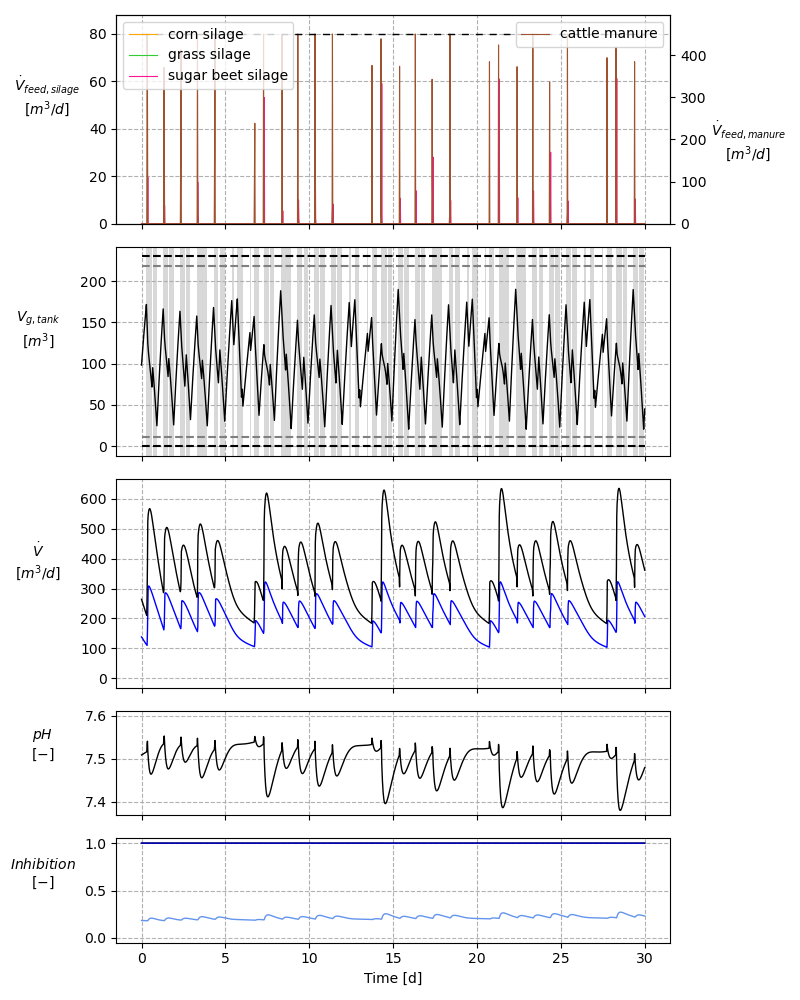
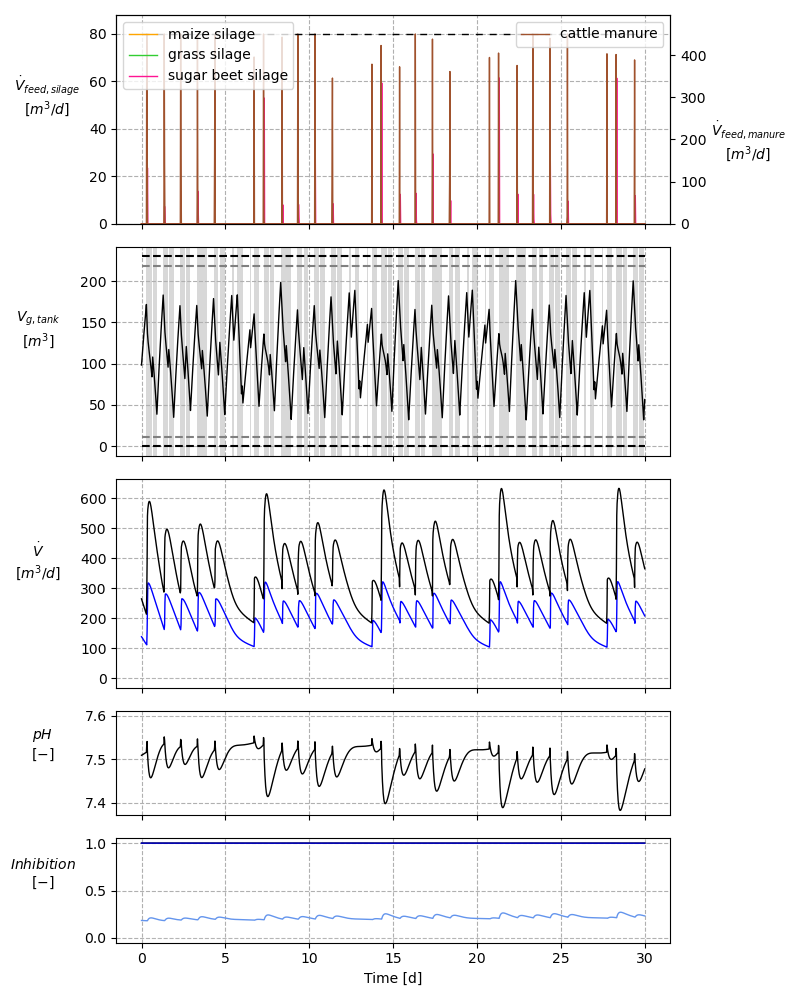
update plots of Sc. 2a (robust) with only 1 sigma

diff --git a/ad_meal_prep_control/scenarios/scenario_2a_robust.py b/ad_meal_prep_control/scenarios/scenario_2a_robust.py
@@ -20,7 +20,7 @@ cost_func = CostFunction(lterm=lterm, mterm=mterm)
 
 # user input:
 n_days_mpc = 30  # length of simulation [d]
-n_std_dev = 3  # number std deviations
+n_std_dev = 1  # number std deviations
 t_stp_ahead_pred = 8  # for controller plotting
 
 controller_params = ControllerParams(
